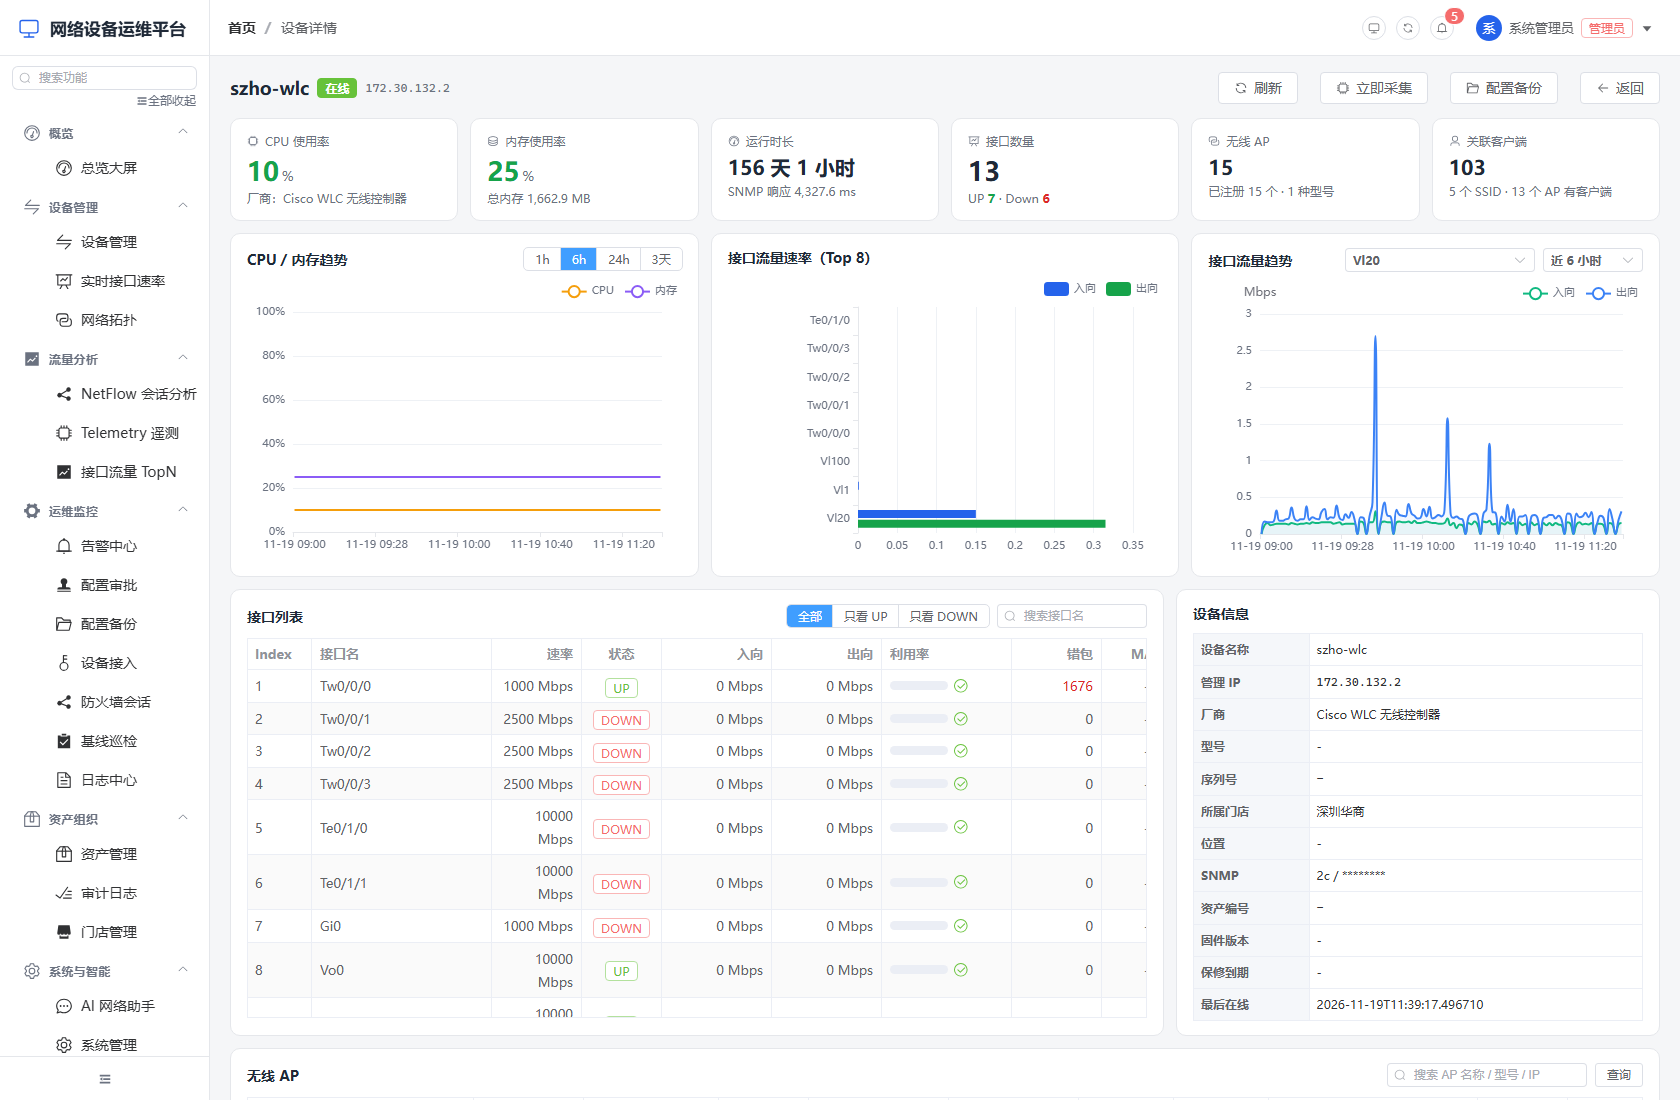
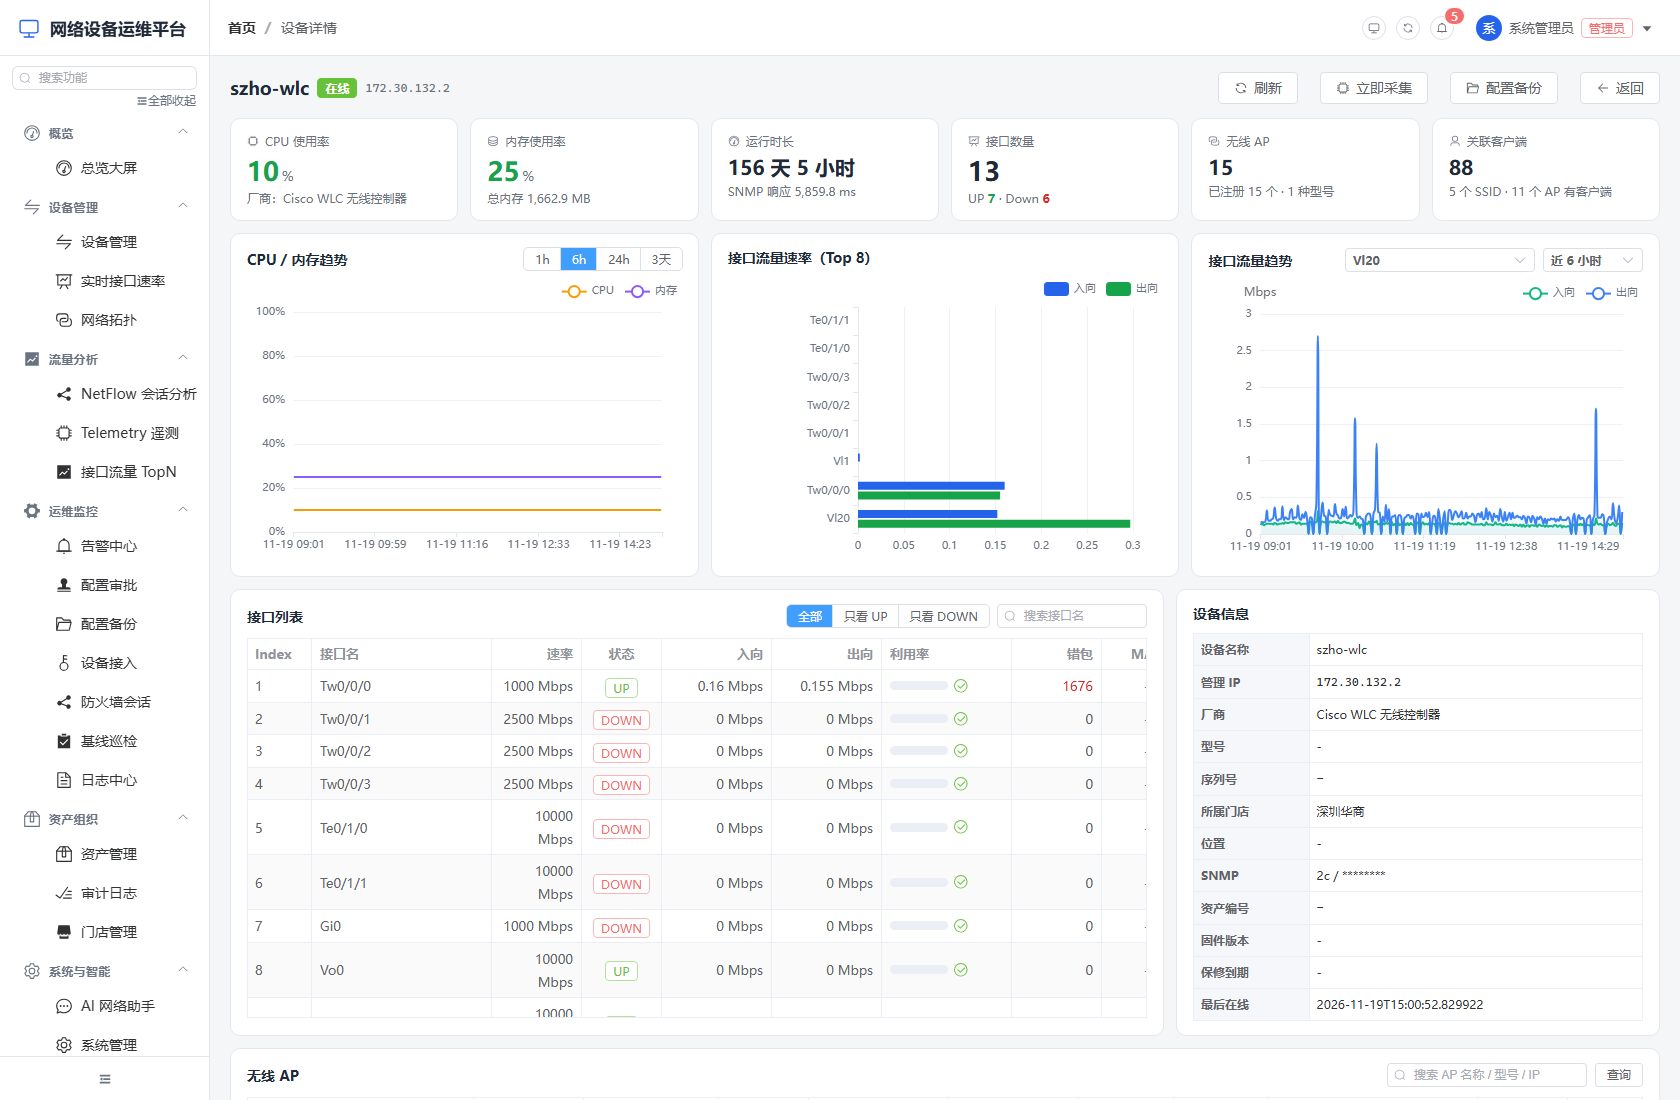
fix: AP 资产与客户端信道/噪底全通——三个截断/排除 bug 修复
经真实消息存盘离线重放定位，三个根因全部修复：

1. capwap-data / oper-data 在条目提取的排除名单里被**无条件**
   排除——主批里它们是 31 台 AP 的完整资产数据（型号/位置/
   版本），从未进入合并。修复：重复组（同名兄弟 ≥2）不再排除；
   单例才排除 keys/content
2. ap_updates[:200] 截断——主批 AP 条目约 250-300，capwap 的
   31 条在截断外被丢弃。修复：上限放开至 5000
3. 序列号真实键名是 wtp-serial-num（不是 wtp-serial-number）

重放真实主批验证（决定性证据）：
- AP 型号 31/31（C9120AXI-H）、位置 31/31（FSBC）、软件版本
  31/31（17.9.4.27）、状态 31/31、序列号键修正
- 客户端信道 41/41（ch=165 真实值）、噪底 41/41（-93~-95 dBm）
  ——来自 sub31 rrm 全树批（62 个 rrm-measurement 条目）；
  填客户端判定改条目特征（含 rrm 的嵌套 chan 键）
- AP 客户端数：rrm-measurement 的 load.stations 按批内多 slot
  累加汇总（16 台 AP 有关联客户端），AP 表新增「客户端数」列

诊断方法沉淀：无线消息原样存盘（.pb 文件）→ 离线反复重放
合并器——比反复重启抓日志快一个量级

回归：verify_wireless_v2 28/28、verify_gnmi_switch 16/16

diff --git a/frontend/src/views/DeviceDetailView.vue b/frontend/src/views/DeviceDetailView.vue
@@ -406,6 +406,16 @@
               </span>
             </template>
           </el-table-column>
+          <el-table-column prop="client_count" label="客户端数" width="80" align="center">
+            <template #default="{ row }">
+              <span class="mono">{{ row.client_count || 0 }}</span>
+            </template>
+          </el-table-column>
+          <el-table-column prop="client_count" label="客户端数" width="80" align="center">
+            <template #default="{ row }">
+              <span class="mono">{{ row.client_count || 0 }}</span>
+            </template>
+          </el-table-column>
           <el-table-column prop="state" label="状态" width="110" align="center" show-overflow-tooltip>
             <template #default="{ row }">
               <el-tag size="small" effect="plain" :type="row.state === 'Run' ? 'success' : 'info'">

diff --git a/backend/app/collectors/mdt.py b/backend/app/collectors/mdt.py
@@ -165,8 +165,8 @@ def telemetry_to_samples(msg: mdt_pb2.Telemetry) -> List[Dict[str, Any]]:
 
     _walk(msg.data_gpb, "", "")
     # 上限保护：一条消息最多取 2000 个叶子（1MB 级消息可能上万个）
-    # 不设上限：单批可能 2000+ 样本（大 xpath 全树），全部返回
-    return samples[:20000]
+    # 全量返回，不设上限
+    return samples
 
 
 # ---------------------------------------------------------------- 服务端
@@ -281,7 +281,26 @@ class MdtDialoutServicer(mdt_pb2_grpc.gRPCMdtDialoutServicer):
                             update_wireless_from_msg, msg, did
                         )
                     except Exception as exc:
-                        logger.exception("MDT 无线合并调度失败: %s", exc)
+                        # SQLite 写锁偶发冲突（大样本入库占锁）——
+                        # 等 1 秒重试一次，通常即可成功
+                        if "database is locked" in str(exc):
+                            await asyncio.sleep(1)
+                            try:
+                                await asyncio.to_thread(
+                                    update_wireless_from_msg, msg, did
+                                )
+                                logger.info(
+                                    "MDT 无线合并锁重试成功: %s",
+                                    (msg.encoding_path or "")[:40],
+                                )
+                            except Exception as exc2:
+                                logger.exception(
+                                    "MDT 无线合并重试仍失败: %s", exc2
+                                )
+                        else:
+                            logger.exception(
+                                "MDT 无线合并调度失败: %s", exc
+                            )
                 else:
                     logger.info("MDT 未匹配到设备，跳过无线合并（node=%s）", msg.node_id_str)
 
@@ -334,6 +353,15 @@ class MdtDialoutServicer(mdt_pb2_grpc.gRPCMdtDialoutServicer):
                         _show(f.fields, depth + 1, max_depth, limit)
 
             _show(msg.data_gpb.fields)
+            # 大 content 的子名分布统计（定位条目结构用）
+            for top in msg.data_gpb.fields:
+                if top.name == "content" and len(top.fields) > 100:
+                    from collections import Counter as _C
+                    dist = _C(f.name for f in top.fields)
+                    logger.info(
+                        "MDT DEBUG 大content子名分布: %s",
+                        dict(sorted(dist.items(), key=lambda x: -x[1])),
+                    )
         except Exception as exc:
             logger.debug("MDT dump 失败: %s", exc)
 
@@ -569,10 +597,16 @@ def update_wireless_from_msg(msg: mdt_pb2.Telemetry, device_id) -> int:
         names = [f.name for f in field.fields]
         for name in set(names):
             group = [f for f in field.fields if f.name == name]
-            # ≥2 个同名兄弟才算列表；只有 1 个时也要（设备上只有
-            # 1 个客户端的场景），但要排除 keys 这类单例键容器
-            if len(group) >= 1 and all(g.fields for g in group) and name not in (
-                "keys", "content", "oper-data", "capwap-data",
+            # 重复组（同名兄弟 ≥2）直接是列表条目——不要排除
+            # capwap-data/oper-data！主批里它们是 31 台 AP 的完整
+            # 资产数据（之前无条件排除导致 model/serial 全丢）
+            if len(group) >= 2 and all(g.fields for g in group):
+                groups.append(group)
+            # 单例：设备只有 1 个条目时也要；排除单例键容器
+            elif (
+                len(group) == 1
+                and group[0].fields
+                and name not in ("keys", "content")
             ):
                 groups.append(group)
         # 深一层找（keys / content 等单例容器要穿透）
@@ -695,7 +729,10 @@ def update_wireless_from_msg(msg: mdt_pb2.Telemetry, device_id) -> int:
                 for a in aps.values()
                 if a.radio_mac
             }
-            for ap_name, leaves in ap_updates[:200]:
+            # 不设条目上限：主批 AP 条目可达 300+（31 capwap + 62 radio +
+            # 62 stats + 31 name-map 等），[:200] 会把 capwap 资产数据截掉
+            ap_client_counts: Dict[str, int] = {}
+            for ap_name, leaves in ap_updates[:5000]:
                 if ap_name.startswith("__mac__"):
                     # rrm / radio-oper 条目只有 wtp-mac——
                     # 先按 wtp_mac 列（capwap 建立），再按 radio_mac 兜底
@@ -751,7 +788,8 @@ def update_wireless_from_msg(msg: mdt_pb2.Telemetry, device_id) -> int:
                     # capwap-data 订阅（17.9 实测，含 AP 资产信息）
                     ("device-detail.static-info.ap-models.model", "model", str),
                     (
-                        "device-detail.static-info.board-data.wtp-serial-number",
+                        # 实测真实键名是 wtp-serial-num（不是 -number）
+                        "device-detail.static-info.board-data.wtp-serial-num",
                         "serial_number",
                         str,
                     ),
@@ -795,7 +833,18 @@ def update_wireless_from_msg(msg: mdt_pb2.Telemetry, device_id) -> int:
                     "rrm-measurement" in path
                     or "radio-oper-data" in path
                     or "curr-freq" in leaves
+                    or "noise.noise.noise-data.chan" in leaves
                 )
+                # AP 客户端数：rrm-measurement 的 load.stations
+                # （该 radio 关联的客户端数）——按 slot 累加到 AP 行
+                if is_radio_entry:
+                    st = _to_float_safe(leaves.get("load.stations"))
+                    if st is not None:
+                        # 同批内多 slot 条目累加（slot0+slot1）
+                        ap_client_counts[ap_row.name] = (
+                            ap_client_counts.get(ap_row.name, 0) + int(st)
+                        )
+                        ap_row.client_count = ap_client_counts[ap_row.name]
                 if is_radio_entry:
                     # rrm-measurement 的 chan 或 radio-oper-data 的
                     # curr-freq 都代表当前信道

diff --git a/backend/app/services/telemetry_service.py b/backend/app/services/telemetry_service.py
@@ -306,8 +306,11 @@ def store_telemetry_samples(
                 deduped_strings.append(s)
         # 不限额：全部推送数据入库（遥测样本保留 24 小时，
         # 由调度清理任务滚动删除，避免无限增长）
-        audit_samples = samples[:20000]
-        for s in audit_samples:
+        # 全量入库，不设上限；分批 commit（每 500 条）——
+        # 单条大消息几千条样本一个事务会把 SQLite 写锁占满，
+        # 其他写入方（无线合并等）超时 database is locked
+        audit_samples = samples
+        for i, s in enumerate(audit_samples):
             num = _to_float(s.value)
             db.add(
                 TelemetrySampleModel(
@@ -321,6 +324,8 @@ def store_telemetry_samples(
                     source=source,
                 )
             )
+            if (i + 1) % 500 == 0:
+                db.commit()
 
         db.commit()
 

diff --git a/backend/app/models/models.py b/backend/app/models/models.py
@@ -483,6 +483,8 @@ class WirelessAP(Base):
     # AP 基 MAC（wtp-mac，capwap-data 遥测推送）——radio_mac 是
     # BSSID 段与 wtp-mac 不同源，关联 rrm / radio 数据要靠此列
     wtp_mac: Mapped[str] = mapped_column(String(32), default="")
+    # 该 AP 的关联客户端数（rrm-measurement 的 load.stations）
+    client_count: Mapped[int] = mapped_column(Integer, default=0)
     ts: Mapped[datetime] = mapped_column(DateTime, default=_now, index=True)
 
 

diff --git a/backend/app/api/devices.py b/backend/app/api/devices.py
@@ -660,6 +660,7 @@ def list_wireless_aps(
                 "client_count": client_counts.get(r.radio_mac, 0),
                 "noise_floor": r.noise_floor,
                 "sw_version": r.sw_version or "",
+                "client_count": r.client_count or 0,
                 "source": r.source or "snmp",
                 "ts": r.ts.isoformat() if r.ts else "",
             }

diff --git a/backend/app/db/session.py b/backend/app/db/session.py
@@ -32,7 +32,7 @@ if settings.database_url.startswith("sqlite"):
         cur.execute("PRAGMA synchronous=NORMAL")
         cur.execute("PRAGMA foreign_keys=ON")
         # 写锁等待：多进程/多线程并发写入时避免立即报 database is locked
-        cur.execute("PRAGMA busy_timeout=15000")
+        cur.execute("PRAGMA busy_timeout=30000")
         cur.close()
 
 
